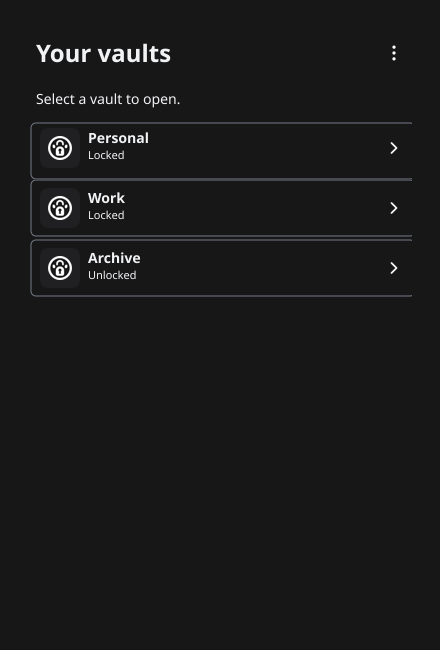
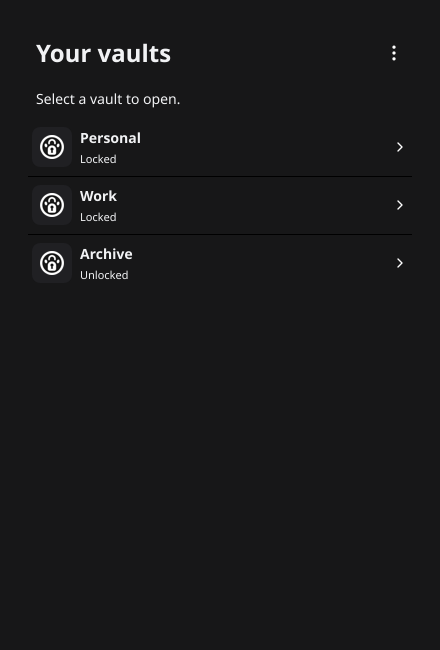
fix(ui): match vault selector rows to list item layout

Changed region(s): [[0.0591, 0.1846, 0.9455, 0.4615], [0.8864, 0.4, 0.9159, 0.4308], [0.8864, 0.2154, 0.9159, 0.2462]]

diff --git a/internal/ui/select_vault.go b/internal/ui/select_vault.go
@@ -9,7 +9,6 @@ import (
 	"fyne.io/fyne/v2/layout"
 	"fyne.io/fyne/v2/widget"
 	"go.lucor.dev/paw/internal/model"
-	"go.lucor.dev/paw/internal/ui/assets/icons"
 )
 
 // VaultChoice describes a vault available in the selector.
@@ -27,7 +26,13 @@ func NewSelectVault(vaults []VaultChoice, addVault func()) fyne.CanvasObject {
 	list = widget.NewList(
 		func() int { return len(vaults) },
 		func() fyne.CanvasObject {
-			return NewActionRow("Vault", "Locked", icons.Lock, nil)
+			row := newNavigationRowWithSubtitle(
+				"Vault",
+				"Locked",
+				newVaultIcon(model.DefaultVaultAppearance(), vaultIconMedium),
+				nil,
+			)
+			return container.NewStack(row)
 		},
 		func(id widget.ListItemID, object fyne.CanvasObject) {
 			vault := vaults[id]
@@ -35,13 +40,18 @@ func NewSelectVault(vaults []VaultChoice, addVault func()) fyne.CanvasObject {
 			if vault.Unlocked {
 				status = "Unlocked"
 			}
-			row := object.(*ActionRow)
-			row.SetContent(vault.Name, status, vaultIconResource(vault.Appearance.Icon))
-			row.SetLeadingObject(newVaultIcon(vault.Appearance, vaultIconMedium))
-			row.SetTapped(func() { list.Select(id) })
+			cell := object.(*fyne.Container)
+			row := newNavigationRowWithSubtitle(
+				vault.Name,
+				status,
+				newVaultIcon(vault.Appearance, vaultIconMedium),
+				func() { list.Select(id) },
+			)
+			cell.Objects[0] = row
+			cell.Refresh()
 		},
 	)
-	list.HideSeparators = true
+	list.HideSeparators = false
 	list.OnSelected = func(id widget.ListItemID) {
 		list.UnselectAll()
 		vaults[id].Open()

diff --git a/internal/ui/select_vault_test.go b/internal/ui/select_vault_test.go
@@ -31,7 +31,7 @@ func TestVaultAppearanceIsShownInVaultHeaderAndUnlock(t *testing.T) {
 	require.True(t, hasVaultAppearance(window.Content(), appearance))
 }
 
-func TestVaultSelectorListUsesFullBoundsForKeyboardHighlight(t *testing.T) {
+func TestVaultSelectorUsesStandardNavigationRows(t *testing.T) {
 	test.NewTempApp(t)
 	view := NewSelectVault([]VaultChoice{{Name: "Personal", Open: func() {}}}, func() {})
 	window := test.NewTempWindow(t, view)
@@ -45,8 +45,9 @@ func TestVaultSelectorListUsesFullBoundsForKeyboardHighlight(t *testing.T) {
 		}
 	}
 	require.NotNil(t, list)
-	_, ok := list.CreateItem().(*ActionRow)
-	require.True(t, ok, "the outlined action row should fill the list item focus bounds")
+	require.False(t, list.HideSeparators, "vault rows should follow the standard list separator style")
+	_, ok := list.CreateItem().(*fyne.Container)
+	require.True(t, ok, "the vault list should use the shared navigation row layout")
 }
 
 func TestVaultAppearanceCanSelectNoColor(t *testing.T) {
